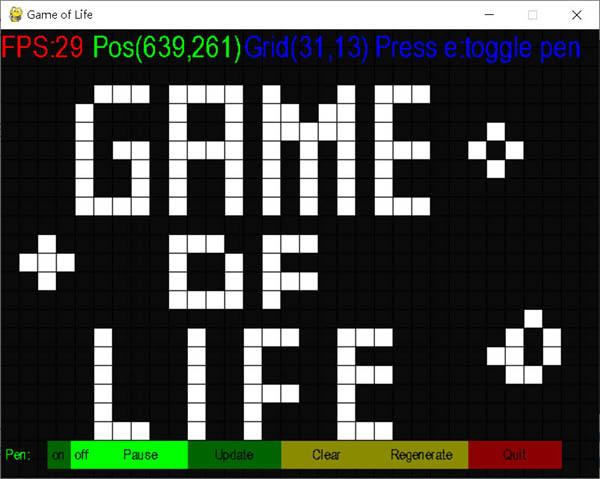
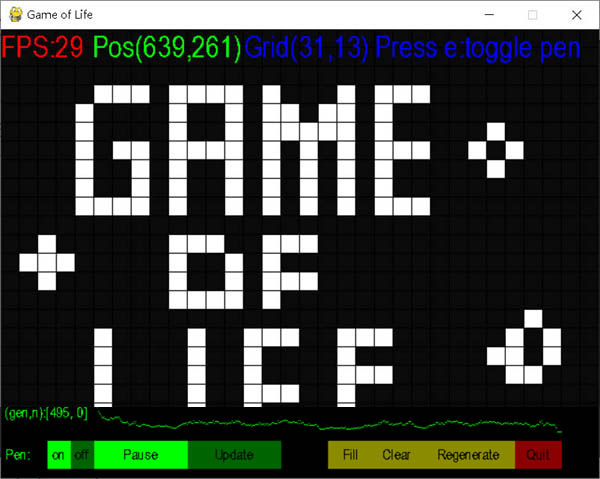
add realtime graph

Changed region(s): [[0.0, 0.8476, 0.93, 0.9937], [0.99, 0.9353, 1.0, 0.9645], [0.99, 0.8768, 1.0, 0.9061]]

diff --git a/game_of_life/game_of_life.py b/game_of_life/game_of_life.py
@@ -6,6 +6,17 @@ Function
     draw_grid()
     update_grid()
     update_cell()
+    get_grid_pos(x, y)
+    alternate_grid_state(x, y)
+    set_grid_live(x, y)
+    get_grid_state(x, y)
+    fill()
+    clear()
+    regenerate()
+    update_generations(num)
+    reset_generations()
+    get_generations()
+    get_generations_arr()
 """
 
 import pygame
@@ -30,8 +41,13 @@ class GameofLife:
         self.columns = int(height / scale)
         self.rows = int(width / scale)
 
+        self.cur_gen_idx=0
+        self.generations = [0] * 500
+
         self.regenerate() 
+
         print ("screen(%d,%d),scale(%d), grid(%d,%d)" % (self.width, self.height, scale, self.rows, self.columns))
+        self.update_generations(0)
 
     def run(self):
         """"Update and redraw the current grid state"""
@@ -49,13 +65,16 @@ class GameofLife:
 
     def update_grid(self):
         """Updating the grid"""
+        num_live = 0
         updated_grid = self.grid.copy()
         for row in range(updated_grid.shape[0]):
             for col in range(updated_grid.shape[1]):
+                if (self.grid[row,col]):
+                    num_live += 1
                 updated_grid[row, col] = self.update_cell(row, col)
 
         self.grid = updated_grid
-
+        self.update_generations(num_live)
 
     def update_cell(self, x, y):
         """Update single cells"""
@@ -114,14 +133,38 @@ class GameofLife:
 
     def fill(self):
         """fill all live cell"""
-        self.grid = np.random.randint(1, 2, size=(self.rows, self.columns), dtype=bool)
+        self.grid = np.ndarray(shape=(self.rows, self.columns), dtype=bool)
+        self.grid.fill(True)
+        self.reset_generations()
 
     def clear(self):
-        """clear all"""
-        self.grid = np.random.randint(0, 1, size=(self.rows, self.columns), dtype=bool)
+        """set all dead"""
+        self.grid = np.ndarray(shape=(self.rows, self.columns), dtype=bool)
+        self.grid.fill(False)
+        self.reset_generations()
 
     def regenerate(self):
         """randomly generate population"""
         self.grid = np.random.randint(0, 2, size=(self.rows, self.columns), dtype=bool)
+        self.reset_generations()
 
+    def update_generations(self, num):
+        """record generations and number of live cells"""
+        self.generations[self.cur_gen_idx] = num
+#        print(self.cur_gen_idx,self.generations[self.cur_gen_idx],num, len(self.generations))
+
+        self.cur_gen_idx += 1
+        if (self.cur_gen_idx==len(self.generations)):
+            self.cur_gen_idx=0
+
+    def reset_generations(self):
+        self.cur_gen_idx=0
+        self.generations[0] = 0
+
+    def get_generations(self):
+#        print(self.cur_gen_idx,self.generations[self.cur_gen_idx])
+        return [self.cur_gen_idx, self.generations[self.cur_gen_idx]]
+
+    def get_generations_arr(self):
+        return self.generations
 

diff --git a/game_of_life/main.py b/game_of_life/main.py
@@ -127,6 +127,7 @@ if __name__ == '__main__':
             if pen_on:
                 game_obj.set_grid_live(grid_x,grid_y)
 
+    gens = game_obj.get_generations()
 
     #update game
     if not(pause):
@@ -141,6 +142,18 @@ if __name__ == '__main__':
     update_text(fonts[0],'Pos('+str(mouse_x)+','+str(mouse_y)+')', 0, "green", (98,0))
     update_text(fonts[0],'Grid('+str(grid_x)+','+str(grid_y)+')', 0, "blue", (260,0))
     update_text(fonts[0],'Press e:toggle pen', 0, "blue", (400,0))
+
+    #plot graph
+    pygame.draw.rect(screen,(0,0,0),(0,400,WIDTH,100))
+    x0,y0 = 100, 430
+    arr =  game_obj.get_generations_arr()
+    for i in range (len(arr)):
+      pygame.draw.rect(screen, "green",(x0+i, y0- int(arr[i]/8),1,1))
+
+
+    #update generations info
+    update_text(fonts[1],'(gen,n):'+str(gens), 0, "green", (5,400))
+#    print (str(game_obj.get_generations()))
 
     #update button
     update_text(fonts[1],'Pen:', 0, "green", (5,445))
